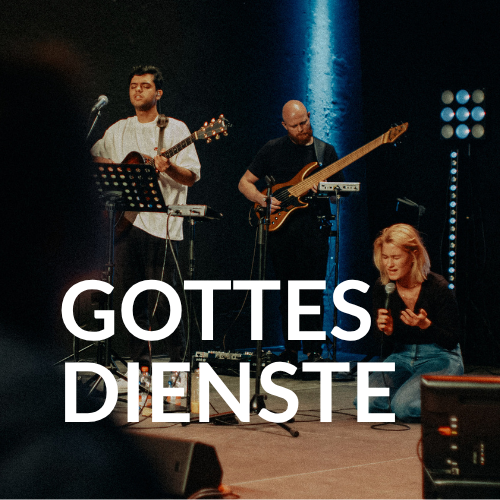
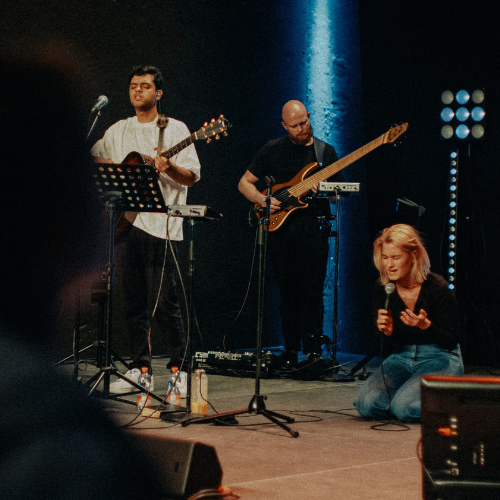
GoDi = Campus related

diff --git a/src/app/termine/termine.page.ts b/src/app/termine/termine.page.ts
@@ -8,7 +8,9 @@ import { Router } from '@angular/router';
 import { DomSanitizer } from "@angular/platform-browser";
 import { UserstateService } from '../userstate.service';
 import { SpracheService } from '../sprache.service';
+import { CampusService, TERMINE_ANSICHT_ALLE } from '../campus.service';
 import { Subscription } from 'rxjs';
+import { distinctUntilChanged, skip } from 'rxjs/operators';
 
 
 @Component({
@@ -24,6 +26,12 @@ export class TerminePage implements OnInit {
   };
   isIOS = false;
   private sprachWechsel: Subscription;
+  private campusWechsel: Subscription;
+
+  /** Name des gewählten Standorts für die Überschrift ("Alle Standorte", wenn keiner gewählt ist). */
+  get campusName(): string {
+    return this.campus.campusName(this.campus.aktiverCampusId.value);
+  }
 
   constructor(
     private platform: Platform,
@@ -32,7 +40,8 @@ export class TerminePage implements OnInit {
     private sanitizer: DomSanitizer,
     public userState:UserstateService,
     private translate:TranslateService,
-    private sprache:SpracheService
+    private sprache:SpracheService,
+    private campus:CampusService
     ) {
       if (window.addEventListener) {
         window.addEventListener("message", this.receiveMessage.bind(this), false);
@@ -65,27 +74,46 @@ export class TerminePage implements OnInit {
 
     if(this.userState.isOnline) {
       //this.browser.secUrl = this.sanitizer.bypassSecurityTrustResourceUrl(this.iframeLink+"?reload=0");
-      this.browser.secUrl = this.sanitizer.sanitize(SecurityContext.URL, this.termineUrl());
-      console.log('secUrl: '+this.browser.secUrl);
+      this.ladeTermine();
     }
 
     // Sprache in den Einstellungen geändert -> Termine in der neuen Sprache neu laden
     this.sprachWechsel = this.translate.onLangChange.subscribe(() => {
       if(this.userState.isOnline) {
-        this.browser.secUrl = this.sanitizer.bypassSecurityTrustResourceUrl(this.termineUrl());
+        this.ladeTermine();
       }
     });
+
+    // Standort geändert (Einstellungen, Login oder gespeicherte Auswahl erst nach dem Start geladen)
+    // -> Termine des neuen Standorts laden; skip(1): der aktuelle Wert ist oben schon geladen
+    this.campusWechsel = this.campus.aktiverCampusId.pipe(distinctUntilChanged(), skip(1)).subscribe(() => {
+      if(this.userState.isOnline) {
+        this.ladeTermine();
+      }
+    });
+  }
+
+  /**
+   * Lädt die Termin-Seite (neu) in das iframe.
+   * secUrl muss ein Text sein: die "safe"-Pipe im Template macht daraus erst die sichere URL.
+   */
+  ladeTermine() {
+    this.browser.secUrl = this.sanitizer.sanitize(SecurityContext.URL, this.termineUrl());
+    console.log('secUrl: '+this.browser.secUrl);
   }
 
   /**
    * URL der Termin-Seite:
    * - reload=<Zufallswert> umgeht Caches, damit immer die aktuellen Termine kommen
    * - lang=de|en gibt die in der App gewählte Sprache an das Kalender-Plugin weiter
+   * - campus=… gibt den in der App gewählten Standort weiter (Ansicht im Plugin, "haupt" = alle Standorte)
    */
   termineUrl(): string {
+    const ansicht = this.campus.aktiverCampus?.termineAnsicht ?? TERMINE_ANSICHT_ALLE;
     return this.iframeLink
       + "?reload=" + (new Date()).getTime() + Math.floor(Math.random() * 1000000)
-      + "&lang=" + this.sprache.aktuell;
+      + "&lang=" + this.sprache.aktuell
+      + "&campus=" + encodeURIComponent(ansicht);
   }
 
   /*
@@ -104,6 +132,7 @@ export class TerminePage implements OnInit {
   ngOnDestroy() {
     window.removeEventListener('message',this.receiveMessage);
     this.sprachWechsel?.unsubscribe();
+    this.campusWechsel?.unsubscribe();
   }
 
   openSafari(link) {
@@ -154,7 +183,7 @@ hideLoader() {
     if (event) {
       if(this.userState.isOnline) {
         //this.refresher = (new Date()).getTime() + Math.floor(Math.random() * 1000000);
-        this.browser.secUrl = this.sanitizer.bypassSecurityTrustResourceUrl(this.termineUrl());
+        this.ladeTermine();
       }
       event.target.complete();
     }

diff --git a/src/app/grid-homescreen/grid-homescreen.component.html b/src/app/grid-homescreen/grid-homescreen.component.html
@@ -13,7 +13,14 @@
 
     <ng-container *ngFor="let entry of form">
       <ion-col *ngIf="entry.isChecked && hasPermission(entry.permissionID)" sizeLg="4" sizeMd="4" sizeXs="6">
-        <ion-card (click)="handleClick(entry.id)"> <img class="image" src="assets/kacheln/Kachel_Startseite_{{entry.id}}.png"/></ion-card>
+        <ion-card (click)="handleClick(entry.id)">
+          <img class="image" src="assets/kacheln/Kachel_Startseite_{{entry.id}}.png"/>
+          <!-- Beschriftung als skalierendes SVG: Koordinaten beziehen sich auf die 500x500 px Kachelgrafik -->
+          <svg class="kachel-text" viewBox="0 0 500 500" aria-hidden="true">
+            <text *ngFor="let zeile of zeilen('KACHEL.' + entry.id | translate); let i = index; let anzahl = count"
+                  x="58" [attr.y]="423 - (anzahl - 1 - i) * 82">{{ zeile }}</text>
+          </svg>
+        </ion-card>
       </ion-col>
   </ng-container>
 

diff --git a/src/app/grid-homescreen/grid-homescreen.component.scss b/src/app/grid-homescreen/grid-homescreen.component.scss
@@ -84,6 +84,26 @@ ion-card {
 
 .image{
     position:center;
+    display: block;
+    width: 100%;
+}
+
+/* Kachelbeschriftung über dem Bild (gleiche Schrift/Größe/Position wie die früher eingebrannte Schrift) */
+.kachel-text {
+  position: absolute;
+  inset: 0;
+  width: 100%;
+  height: 100%;
+  pointer-events: none;
+
+  text {
+    /* 'Lato bold' ist im Theme als eigene Schrift (Gewicht 400) eingebunden – kein font-weight:bold, sonst wird künstlich nachgefettet */
+    font-family: 'Lato bold', 'Lato', sans-serif;
+    font-weight: normal;
+    font-size: 82px;
+    fill: #fff;
+    text-transform: uppercase;
+  }
 }
 
 ios hydrated {margin: 0px!important;}

diff --git a/src/app/grid-homescreen/grid-homescreen.component.ts b/src/app/grid-homescreen/grid-homescreen.component.ts
@@ -26,6 +26,15 @@ export class GridHomescreenComponent implements OnInit {
     this.userState.homescreen.subscribe((form)=>{this.form=form});
   }
 
+  /** Kachelbeschriftung: Zeilenumbrüche sind in den Übersetzungen mit "|" markiert. */
+  zeilen(text: string): string[] {
+    // Ohne Übersetzung (z. B. Kacheln mit eingebrannter Schrift) keinen Text darüberlegen
+    if (!text || text.startsWith('KACHEL.')) {
+      return [];
+    }
+    return text.split('|');
+  }
+
   openWebsite(url:string){
     this.platform.ready().then(async () => {
       await InAppBrowser.openInSystemBrowser({url:url,options:DefaultSystemBrowserOptions});

diff --git a/src/app/termine/termine.page.html b/src/app/termine/termine.page.html
@@ -9,7 +9,8 @@
     </ion-refresher-content>
   </ion-refresher>
 
-  <h1 class="ueberuns-text">{{ 'TERMINE.TITLE' | translate }}</h1> 
+  <h1 class="ueberuns-text">{{ 'TERMINE.TITLE' | translate }}</h1>
+  <p class="campus-name">{{ campusName }}</p>
 
   
  <!-- div class="back"><a (click)="BackActivated()"><ion-icon name="return-up-back-outline"></ion-icon></a></div -->

diff --git a/src/app/termine/termine.page.scss b/src/app/termine/termine.page.scss
@@ -17,6 +17,15 @@ h1.ueberuns-text {
     opacity: 1;
 }
 
+.campus-name {
+    margin-top: -14px;
+    margin-left: 104px;
+    font-family: Lato;
+    font-size: 20px;
+    letter-spacing: 1.5px;
+    color: #777777;
+}
+
 .back {
     position: absolute;
     top: 10px;
